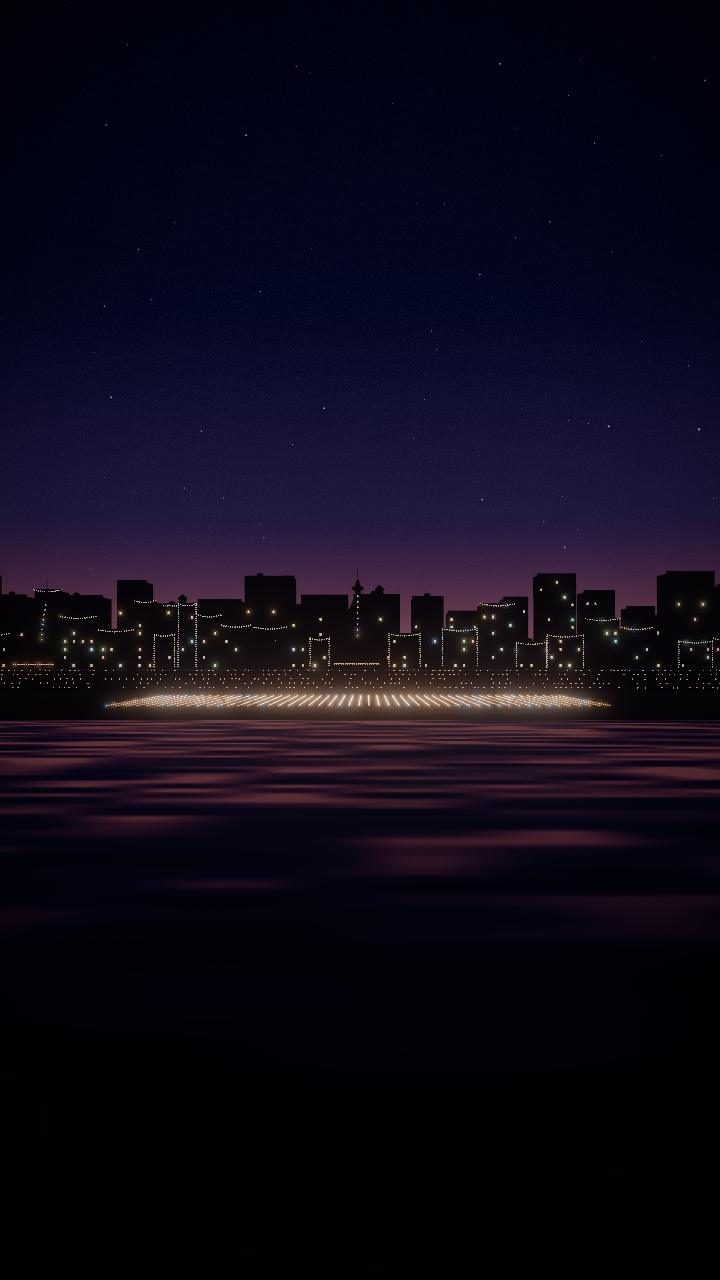
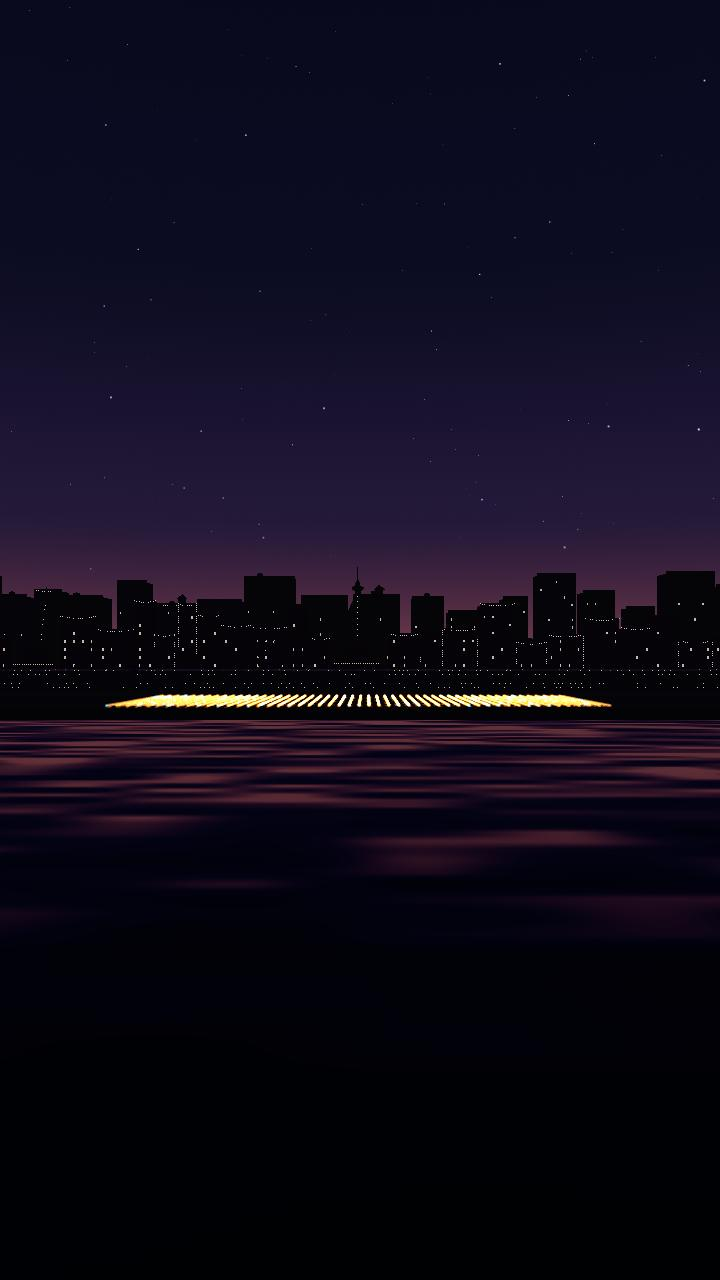
Home scene live from load; steady dusk backdrop on every page
- The 3D scene starts right after load instead of on the first scroll.
- Inner pages sit on a still of the home sky (rendered from the scene).

diff --git a/src/components/home/HomeSwarmLoader.tsx b/src/components/home/HomeSwarmLoader.tsx
@@ -8,8 +8,9 @@ import { onEngageOrIdle } from "@/components/swarm/defer";
 import SoundToggle from "@/components/swarm/SoundToggle";
 
 // three, R3F, postprocessing and GSAP all live behind this import. It is
-// requested only after the page has loaded, on the visitor's first scroll
-// or tap (or a few idle seconds), so none of it competes with the hero.
+// requested as soon as the page has loaded and the main thread is idle —
+// never during load, so it doesn't compete with the hero — and the live
+// scene runs from then on. Scrolling only drives the drones' story.
 const HomeSwarm = dynamic(() => import("./HomeSwarm"), { ssr: false });
 
 export const HOME_POSTER = "/posters/home.jpg";
@@ -37,6 +38,16 @@ function pinnedBeat(): number | null {
 }
 
 /**
+ * `?swarmDissolve=1` (with a pinned beat) renders the sky with the fleet
+ * gone — the backdrop the rest of the site uses (scripts/render-poster.mjs).
+ */
+function pinnedDissolve(): number {
+  const raw = new URLSearchParams(window.location.search).get("swarmDissolve");
+  const value = raw === null ? 0 : Number(raw);
+  return Number.isFinite(value) ? Math.min(Math.max(value, 0), 1) : 0;
+}
+
+/**
  * Fixed full-viewport backdrop for the home page's scroll story.
  *
  * Paints a pre-rendered poster frame immediately (server HTML), then swaps
@@ -49,7 +60,7 @@ export default function HomeSwarmLoader() {
   // during render); GSAP writes it, the render loop reads it.
   const [story] = useState<StoryState>(() => {
     const pinned = pinnedBeat();
-    return pinned === null ? { beat: 0, lit: 0, dissolve: 0 } : { beat: pinned, lit: 1, dissolve: 0 };
+    return pinned === null ? { beat: 0, lit: 0, dissolve: 0 } : { beat: pinned, lit: 1, dissolve: pinnedDissolve() };
   });
   const [mounted, setMounted] = useState(false);
   const [ready, setReady] = useState(false);
@@ -63,8 +74,10 @@ export default function HomeSwarmLoader() {
 
   useEffect(() => {
     if (!webgl) return;
-    // A pinned beat (poster renders, tuning) has no visitor to wait for.
-    return onEngageOrIdle(() => setMounted(true), pinnedBeat() !== null ? 0 : 3500);
+    // Start right after load (at the first idle moment), not on the first
+    // scroll: waiting left a still poster on screen that "came alive" with a
+    // shimmer when the visitor scrolled.
+    return onEngageOrIdle(() => setMounted(true), 0);
   }, [webgl]);
 
   // Scroll wiring loads with the scene, never on reduced motion.

diff --git a/src/components/layout/SiteBackdrop.tsx b/src/components/layout/SiteBackdrop.tsx
@@ -1,0 +1,34 @@
+"use client";
+
+import { usePathname } from "next/navigation";
+
+/**
+ * The steady backdrop of every page except home: the same dusk sky over the
+ * river and skyline that the home page settles on below its story (where
+ * the team section sits), darkened the same way so copy stays legible.
+ *
+ * A still image (rendered from the live scene by scripts/render-poster.mjs),
+ * not WebGL: it costs one ~60 KB JPEG and no main-thread time. Home paints
+ * its own live scene; /internal keeps its light theme.
+ */
+export default function SiteBackdrop() {
+  const path = usePathname() ?? "/";
+  if (path === "/" || path.startsWith("/internal")) return null;
+  return (
+    <div aria-hidden="true" className="pointer-events-none fixed inset-0 -z-10 bg-[#03040b]">
+      <picture>
+        <source media="(max-aspect-ratio: 4/5)" srcSet="/posters/backdrop-portrait.jpg" />
+        <img
+          src="/posters/backdrop.jpg"
+          alt=""
+          fetchPriority="low"
+          decoding="async"
+          className="absolute inset-0 h-full w-full object-cover"
+        />
+      </picture>
+      {/* Same treatment as the home page below its story. */}
+      <div className="absolute inset-0 bg-gradient-to-r from-[#03040b]/70 via-[#03040b]/25 to-transparent" />
+      <div className="absolute inset-0 bg-[#03040b]/80" />
+    </div>
+  );
+}

diff --git a/src/app/layout.tsx b/src/app/layout.tsx
@@ -14,6 +14,7 @@ import "@fontsource/ibm-plex-mono/600.css";
 import "./globals.css";
 import Header from "@/components/layout/Header";
 import Footer from "@/components/layout/Footer";
+import SiteBackdrop from "@/components/layout/SiteBackdrop";
 import { company, site } from "@/lib/content";
 
 export const metadata: Metadata = {
@@ -76,6 +77,7 @@ export default function RootLayout({
           type="application/ld+json"
           dangerouslySetInnerHTML={{ __html: JSON.stringify(organizationJsonLd) }}
         />
+        <SiteBackdrop />
         <Header />
         <main className="flex-1">{children}</main>
         <Footer />
